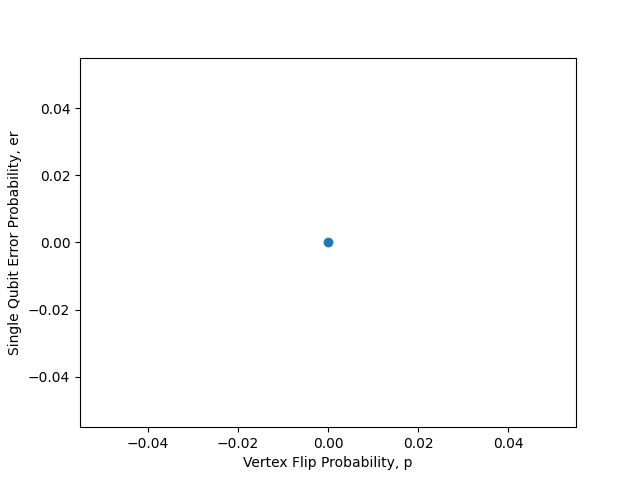
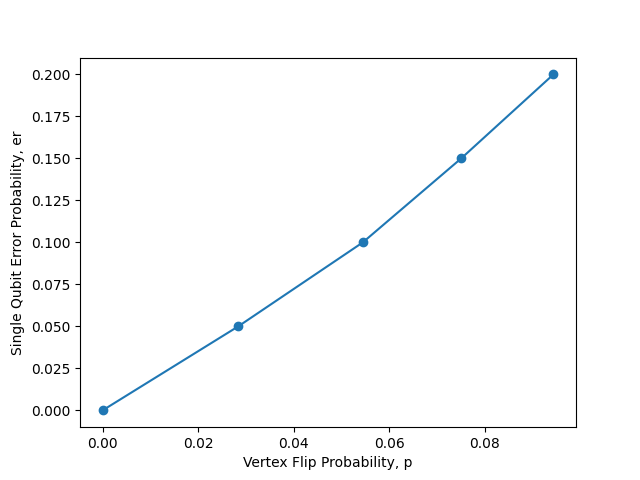
Small changes to make running easier

diff --git a/MonteCarlo_and_Expectation value/Main.py b/MonteCarlo_and_Expectation value/Main.py
@@ -13,7 +13,7 @@ NUMBER_OF_SAMPELS = 100000
 
 LATTICE_SIZES = [8]
 BETAS = [0.5]
-SINGLE_QUBIT_ERROR_PROBABILITES = [0.0, 0.05, 0.1]
+SINGLE_QUBIT_ERROR_PROBABILITES = [0.0, 0.05, 0.1, 0.15, 0.2]
 
 if __name__ == "__main__":
     threadNumber = int(input("Enter the number of threades to be used: "))
@@ -26,7 +26,7 @@ if __name__ == "__main__":
     for latticeSize in LATTICE_SIZES:
         for beta in BETAS:
             for singleQubitErrorProbability in SINGLE_QUBIT_ERROR_PROBABILITES:
-                for configNumber in range(0, 10):
+                for configNumber in range(1):
                     lambdaZFilePath = f"./LambdaConfigs/latticeSize={latticeSize}/Beta={beta}/singleQubitErrorProbability={singleQubitErrorProbability}/VertexLmabdaConfig={configNumber}.csv"
                     poolJobs.append((latticeSize, beta, lambdaZFilePath, singleQubitErrorProbability, NUMBER_OF_ITERATIONS, NUMBER_OF_SAMPELS, configNumber))
 

diff --git a/MonteCarlo_and_Expectation value/MonteCarlo.py b/MonteCarlo_and_Expectation value/MonteCarlo.py
@@ -42,7 +42,10 @@ def updateLinkExpectationValue(lattice, linkExpectationValue):
 
 def addOneMoreLayer(lattice, states, probabilitySum):
     newStates = set()
+    cnt = 0
     for vertex in lattice.getVertices():
+        print(f"{cnt} Vertices Done!")
+        cnt += 1
         for state in states:
             lattice.loadState(state)
             lattice.applyStabilizerOperatorA(vertex)
@@ -52,6 +55,8 @@ def addOneMoreLayer(lattice, states, probabilitySum):
                 probabilitySum += lattice.getProbability()
     
     states |= newStates
+
+    del newStates
     return probabilitySum
 
 def MonteCarlo(latticeSize, beta, lambdaZFilePath="", singleQubitErrorProbability=0, 

diff --git a/Expectation Value and Sign/CalculateVertexFlipProbability.py b/Expectation Value and Sign/CalculateVertexFlipProbability.py
@@ -8,7 +8,7 @@ import matplotlib.pyplot as plt
 
 BETA = [0.5]
 LATTICE_SIZE = [8]
-CONFIG_RANGE = range(0, 10)
+CONFIG_RANGE = range(1, 2)
 SINGLE_QUBIT_ERROR_PROBABILITIES = [0.0, 0.05, 0.1, 0.15, 0.2]
 
 # Loading the data:
